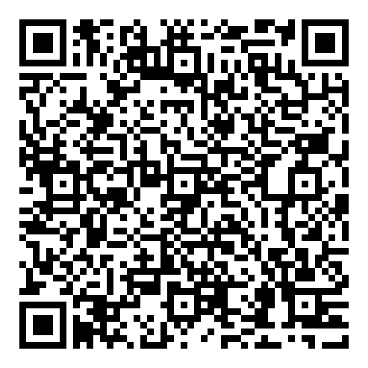
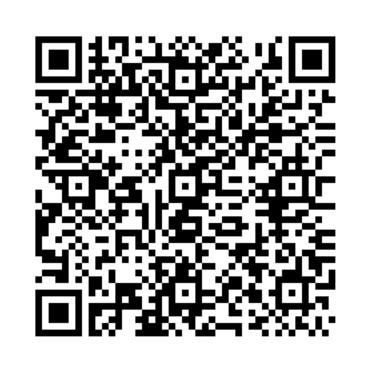
Update README and replace PIX key in index.html

diff --git a/index.html b/index.html
@@ -61,7 +61,7 @@
                     <div class="pix-box">
                         <p><strong>PIX:</strong></p>
                         <img src="assets/images/pix-qrcode.png" alt="Pix QR Code" class="pix-qr">
-                        <p class="pix-key">f1bd16a4-2612-4291-b080-dad7b323c4b7</p>
+                        <p class="pix-key">a3eedbcc-64a3-4a26-94bd-e0b1041a817a</p>
                     </div>
                 </div>
             </div>

diff --git a/README.md b/README.md
@@ -12,7 +12,7 @@ It’s **100% open source** and super easy to tweak in the code. Whether you’r
 
 With Linkzy, your links stay neatly organized, your profile is fast and responsive, and it works perfectly on any device — **your way, without complications.**
 
-[**Documentation**](https://github.com/kenned-candido/Linkzy/wiki)
+[Documentation](https://github.com/kenned-candido/Linkzy/wiki)
 
 ---
 
@@ -20,8 +20,6 @@ With Linkzy, your links stay neatly organized, your profile is fast and responsi
 
 If you enjoy using Linkzy and want to support the project, consider making a small donation. Every contribution helps keep development going and improves the project for everyone!
 
-[![Sponsor](https://img.shields.io/badge/-sponsor-0D1117?style=for-the-badge&logo=githubsponsors&labelColor=0D1117)](https://github.com/sponsors/kenned-candido)
-[![Nubank](https://img.shields.io/badge/-nubank-0D1117?style=for-the-badge&logo=nubank&logoColor=820AD1&labelColor=0D1117)](https://nubank.com.br/cobrar/1na00u/67594881-0eb2-45fc-b73c-7d065d9ba400)
-[![PayPal](https://img.shields.io/badge/-paypal-0D1117?style=for-the-badge&logo=paypal&logoColor=003087&labelColor=0D1117)](https://www.paypal.com/donate/?business=AUZRQZ6DZZAPQ&no_recurring=0&currency_code=USD)
+[![Donate](https://img.shields.io/badge/-❤%20Donate-0D1117?style=for-the-badge&labelColor=0D1117)](https://www.sourcebr.com.br/doar)
 
 <img width=100% src="https://capsule-render.vercel.app/api?type=waving&color=1A1E22&height=85&section=footer"/>
